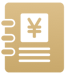
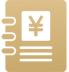
[feat]公司页面更换切图 related in issue#107

diff --git a/app/service/service/ServicePage.js b/app/service/service/ServicePage.js
@@ -31,7 +31,7 @@ const serviceData = [
         jumpPage:'CashFlowPage'
     },
     {
-        title:'利润表',
+        title:'净利润',
         logo:require('../../img/lirunbiao.png'),
         jumpPage:'ProfitStatementPage'
     },
@@ -66,9 +66,24 @@ const serviceData = [
         jumpPage:'DetailAccountListPage'
     },
     {
-        title:'科目余额表',
+        title:'科目余额',
         logo:require('../../img/balance_sheet_tip.png'),
         jumpPage:'BalanceSheetPage'
+    },
+    {
+        title:'资产负债表',
+        logo:require('../../img/zichanfuzhai.png'),
+        jumpPage:''
+    },
+    {
+        title:'利润表',
+        logo:require('../../img/profit_icon.png'),
+        jumpPage:'ProfitPage'
+    },
+    {
+        title:'现金流量表',
+        logo:require('../../img/xianjinliuliang.png'),
+        jumpPage:''
     }
 ]
 
@@ -88,7 +103,7 @@ import {deviceHeight, deviceWidth} from "../../util/ScreenUtil";
 
 
 const itemBorder = 1 / PixelRatio.get()
-const col = 3
+const col = 4
 const itemMargin = 0
 const itemWidth = (deviceWidth - itemMargin*(col+1))/col
 
